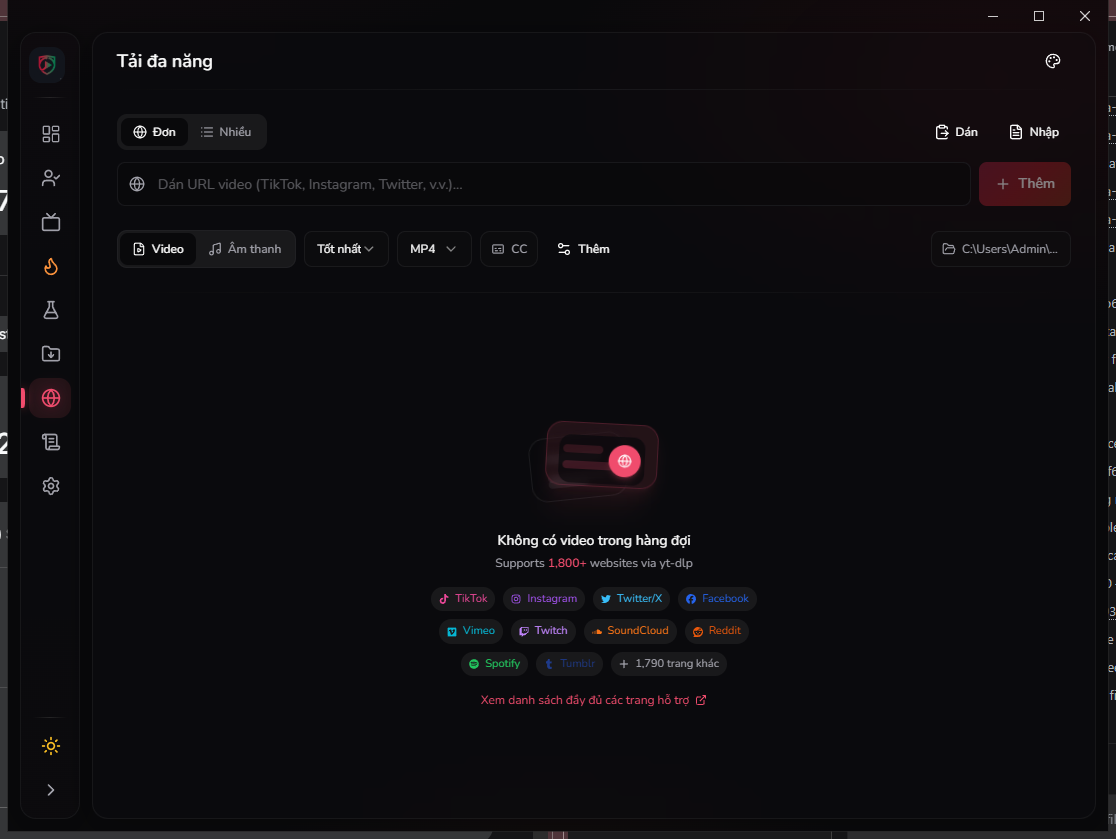
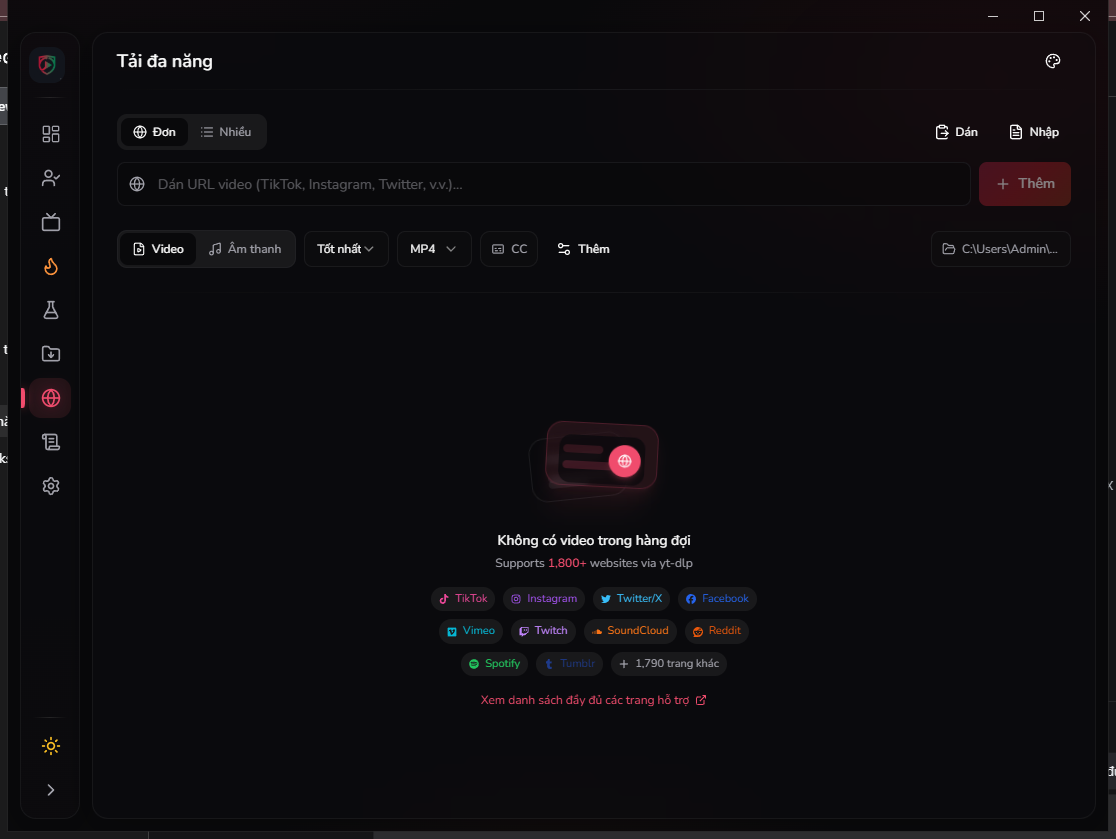
style: normalize formatting and add 0.20.16 test report
- Normalize LF formatting for released docs/config after the 0.20.16 bump.

- Add docs/TEST_REPORT_0.20.16.md with automated, smoke and blocked test results.

- Update smoke screenshot for the rebuilt 0.20.16 binary.

diff --git a/docs/TEST_REPORT_0.20.16.md b/docs/TEST_REPORT_0.20.16.md
@@ -1,0 +1,112 @@
+# Test Report — RETubeMatrix 0.20.16
+
+> Người thực hiện: AI agent · Ngày: 2026-11-06 · Môi trường: Windows x64, WebView2
+> Phương pháp: chạy tester [TEST_PLAN_CODE_DERIVED.md](TEST_PLAN_CODE_DERIVED.md) ở mức tối đa có thể tự động hoá.
+
+---
+
+## 1. Tổng quan
+
+| Loại | Số lượng | Ghi chú |
+| :--- | ---: | :--- |
+| PASS (tự động + smoke thật) | 20 | Build, unit test, launch, CLI, Python, DB, static audit |
+| FIXED trong quá trình test | 1 | Dialog lỗi auto-update khi chưa có release |
+| BLOCKED (cần người/tài khoản) | 6 | Click UI, Studio login/upload, Content ID, tải thật, proxy, Telegram |
+| KNOWN ISSUE (ghi nhận, chưa sửa) | 3 | Summary deep link chết, identifier `.app`, lệch version Tauri |
+
+Bằng chứng smoke: [retubematrix-0.20.16-smoke.png](screenshots/retubematrix-0.20.16-smoke.png).
+
+## 2. Automated suite
+
+| Check | Lệnh | Kết quả |
+| :--- | :--- | :--- |
+| Lint/format | `biome check .` | ✅ 0 lỗi (360 file) |
+| TypeScript | `tsc -b` | ✅ 0 lỗi |
+| SDK TypeScript | `tsc -p sdk-js/tsconfig.json` | ✅ 0 lỗi |
+| Rust check | `cargo check` | ✅ 0 lỗi (0.20.16) |
+| Rust tests | `cargo test --lib` | ✅ 234 passed |
+| Frontend bundle | `vite build` | ✅ build OK |
+| Extension | `node extensions/retubematrix-webext/scripts/build.mjs` | ✅ chromium + firefox |
+| Python syntax | `python -m py_compile runner.py outlier_hunter.py` | ✅ OK |
+| Python import | `python -c "import runner"` | ✅ OK |
+
+## 3. Build & launch thật
+
+| Case | Kết quả |
+| :--- | :--- |
+| Build release 0.20.16 (`tauri build --no-bundle`) | ✅ `target/release/RETubeMatrix.exe` |
+| Mở app | ✅ cửa sổ `RETubeMatrix` 1116×839 |
+| Sidebar | ✅ đúng 9 mục; không còn 6 trang đã xóa |
+| Auto-check update lúc khởi động | ✅ **không còn dialog lỗi** (đã fix silent) |
+| Render trang Universal | ✅ toolbar, input, empty state, 1.800+ sites |
+| Process count | ✅ 1 instance (single-instance) |
+| CLI `--version` | ✅ `RETubeMatrix 0.20.16` |
+| CLI `--help` | ✅ usage/arguments đúng |
+
+## 4. Python browser engine
+
+| Case | Kết quả |
+| :--- | :--- |
+| `runner.py --action list_profiles` | ✅ 2 profiles, JSON hợp lệ |
+| `runner.py --action get_stats` | ✅ total_profiles=2, ready=2, running=0 |
+| `parse_subscribers('340K' / '3.4M' / '49N')` | ✅ 340000 / 3400000 / 49000 |
+| `import runner` | ✅ OK |
+
+## 5. Database runtime
+
+DB: `%APPDATA%\com.retubematrix.app\retubematrix.db`
+
+| Kiểm tra | Kết quả |
+| :--- | :--- |
+| Bảng chính | ✅ 21 bảng gồm history, channels, outlier, BKT, FTS5 |
+| FTS5 | ✅ `history_search_fts` + 4 bảng phụ |
+| Dữ liệu mẫu | outlier_videos=60, bkt_test_channels=3 |
+| Bảng queue/log | ✅ tồn tại (0 hàng tại thời điểm test) |
+
+## 6. Static audit
+
+| Case | Kết quả |
+| :--- | :--- |
+| Version 4 nơi | ✅ package/tauri/Cargo/Cargo.lock = `0.20.16` |
+| i18n parity | ✅ 13 locale × 6 namespace, không thiếu/thừa |
+| Dangling page refs | ✅ 0 tham chiếu tới 6 trang đã xóa |
+| FE gọi command đã xóa | ✅ 0 |
+| IPC coverage | ✅ 147 invoke FE, 154 command đăng ký, **0 missing** |
+| Deep link config | ✅ `retubematrix` + `youwee` |
+| Updater endpoint | ✅ `DungDT293/RETUBEMATRIX` |
+| Extension build | ✅ manifest 0.20.16, deep link `retubematrix://` |
+| SDK CLI | ✅ `retubematrix-sdk` build/pack/keygen/verify |
+| Branding tests | ✅ 2 passed (updater + scheme) |
+| Deep-link tests | ✅ 4 passed |
+
+## 7. BLOCKED — cần tester thật
+
+| Case | Lý do |
+| :--- | :--- |
+| Click/duyệt toàn bộ UI | WebView2 không expose accessibility tree qua UI Automation (chỉ 10 node khung) |
+| Profiles: mở Chromium, proxy, arrange | Cần thao tác GUI và quan sát cửa sổ |
+| Channels: thêm kênh, auto-download thật | Cần mạng + kênh thật |
+| Reup/BKT: upload, Studio polling, Content ID | Cần profile đã đăng nhập YouTube Studio |
+| Universal: tải video thật | Cần URL/network, sẽ tạo file/history thật |
+| Telegram/plugin `.ywp` ký | Cần bot token và gói plugin thật |
+
+## 8. KNOWN ISSUE ghi nhận
+
+1. **Summary deep link / AI Summary trên extension không còn đích đến**
+   - `retubematrix://summary` vẫn được parser chấp nhận, extension vẫn có nút "AI Summary", nhưng `SummaryPage` đã bị xóa → bấm vào không có tác dụng.
+   - Đề xuất: xóa nút summary khỏi extension + bỏ hỗ trợ `summary` deep link, hoặc khôi phục một trang tóm tắt tối giản.
+2. **Identifier `com.retubematrix.app` kết thúc bằng `.app`**
+   - Tauri cảnh báo xung đột với bundle macOS. Cần đổi (ví dụ `com.retubematrix.desktop`) trước khi phát hành macOS; đổi identifier kéo theo migration appdata.
+3. **Lệch version Tauri npm ↔ Rust**
+   - `@tauri-apps/api` 2.12.4 vs `tauri` 2.11.5; nhiều plugin lệch minor. Build phải dùng `--ignore-version-mismatches`; nên đồng bộ trước release.
+
+## 9. Đã sửa trong quá trình test
+
+- **Auto-update dialog**: bản build đầu tiên hiện "Lỗi cập nhật — Failed to check for updates" khi mở app vì endpoint mới chưa có release. Đã chuyển auto-check sang `silent: true`; rebuild và xác nhận không còn dialog.
+
+## 10. Kết luận
+
+- Bản 0.20.16 **build và khởi động được**, UI mới render đúng, không còn dialog update lỗi.
+- Toàn bộ kiểm thử tự động (lint, type, Rust test, Python, DB, IPC, i18n) **pass**.
+- Các luồng cần tài khoản/Studio/network thật vẫn phải do tester thủ công thực hiện theo `TEST_PLAN_CODE_DERIVED.md`.
+- Trước release chính thức: xử lý 3 known issue (ưu tiên summary dead path + identifier `.app`), sau đó chạy QA thủ công mục 6–16 của test plan.
